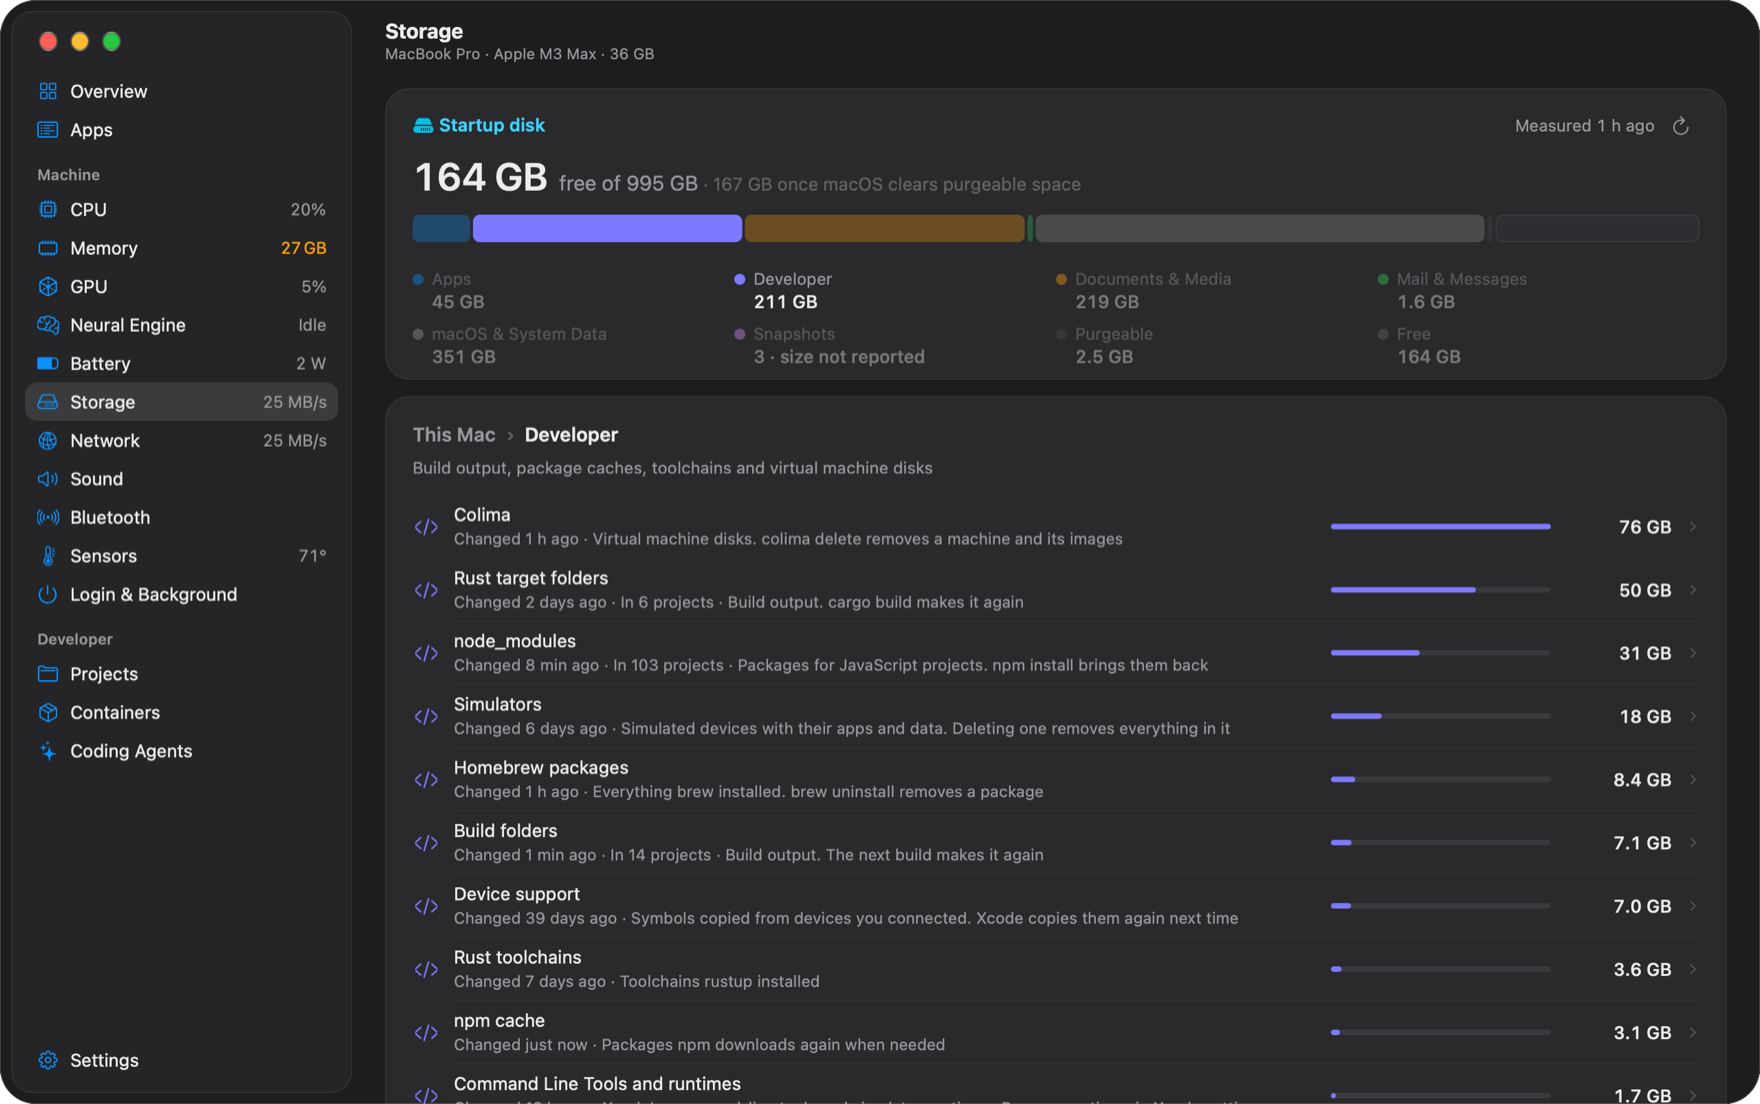
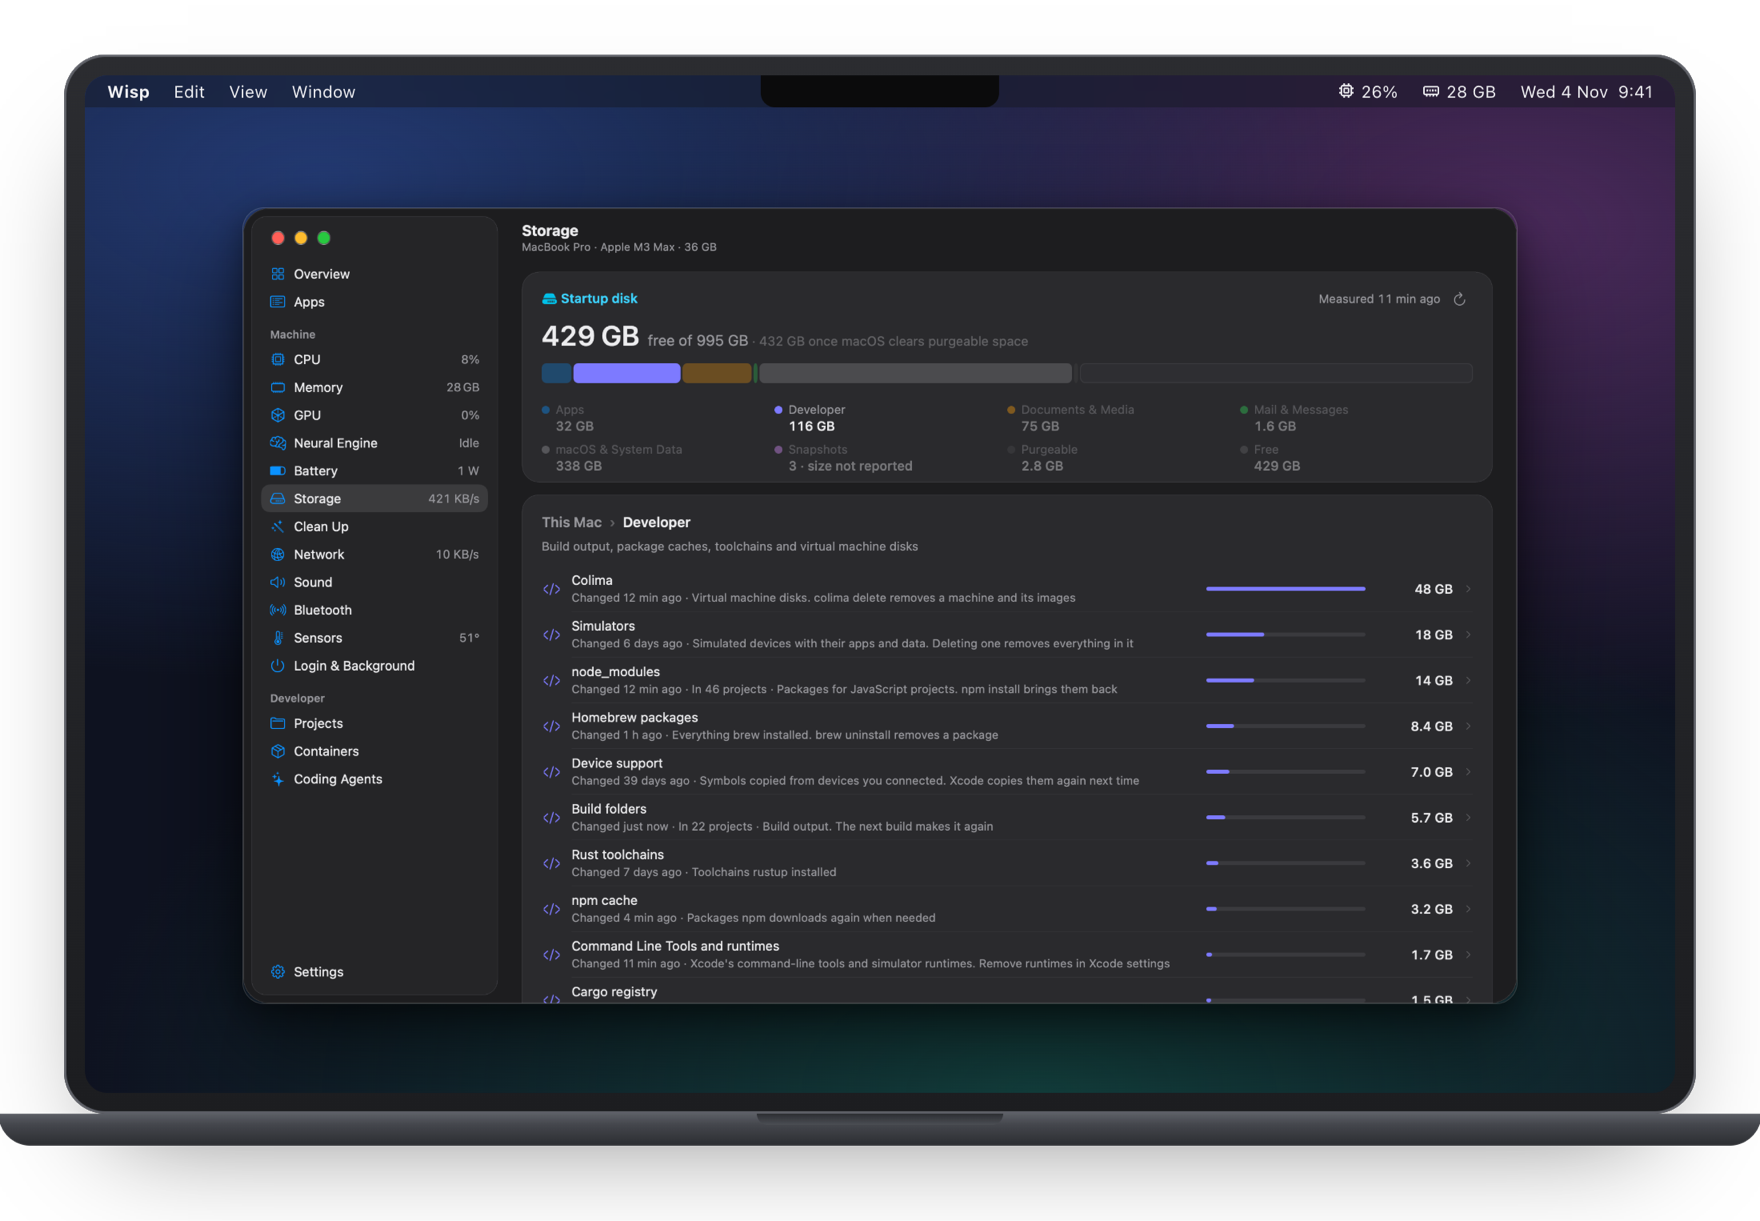
README: laptop mockups and a Clean Up screenshot

diff --git a/README.md b/README.md
@@ -15,15 +15,14 @@ brew install --cask current/tap/wisp
 
 <picture>
   <source media="(prefers-color-scheme: dark)" srcset="docs/images/overview-dark.png">
-  <img src="docs/images/overview-light.png" alt="The Overview page with Why Is It Slow? open. It says limactl is holding 20 GB and macOS has compressed 12 GB to make room, and that 15 dev servers are using 4.7 GB together. Below are the CPU, memory and GPU cards.">
+  <img src="docs/images/overview-light.png" alt="Wisp on a MacBook Pro: the Overview page with CPU, memory, GPU, storage, network, power and temperature cards, and the menu bar dashboard open beside it.">
 </picture>
 
 ## Why is my Mac slow?
 
 The Why Is It Slow? button on Overview checks memory pressure, swap, CPU use per
 app, Spotlight indexing and the dev servers you left running, then lists what it
-found with a button to the app. In the screenshot above, a Lima VM was using
-20 GB. `wisp why` runs the same check in a terminal.
+found with a button to the app. `wisp why` runs the same check in a terminal.
 
 The Hour and Day charts label each spike with the app that caused it.
 
@@ -36,7 +35,7 @@ containers, and its last hour.
 
 <picture>
   <source media="(prefers-color-scheme: dark)" srcset="docs/images/apps-dark.png">
-  <img src="docs/images/apps-light.png" alt="The Apps page with the drawer open for the Aside browser: 50 processes using 8.2 GB of memory and 4.8% CPU, split into windows, extensions, GPU and helpers.">
+  <img src="docs/images/apps-light.png" alt="The Apps page with the drawer open for the Aside browser: 58 processes using 9.2 GB of memory, split into windows, extensions, the main process and the GPU.">
 </picture>
 
 ## Storage
@@ -48,7 +47,7 @@ button opens the page below.
 
 <picture>
   <source media="(prefers-color-scheme: dark)" srcset="docs/images/storage-dark.png">
-  <img src="docs/images/storage-light.png" alt="The Storage page: 164 GB free of 995 GB, and the Developer list with Colima at 76 GB and Rust target folders in 6 projects at 50 GB.">
+  <img src="docs/images/storage-light.png" alt="The Storage page: 429 GB free of 995 GB, and the Developer list with Colima at 48 GB, simulators at 18 GB and node_modules in 46 projects at 14 GB.">
 </picture>
 
 ## Clean Up
@@ -77,6 +76,11 @@ never uses sudo or empties the Trash.
 Scans run only while the page is open. A scheduled clean and a watcher for
 deleted apps are in Settings, both off by default.
 
+<picture>
+  <source media="(prefers-color-scheme: dark)" srcset="docs/images/cleanup-dark.png">
+  <img src="docs/images/cleanup-light.png" alt="The Clean Up page on its Developer tab: 33 GB in 27 items, with Xcode device support at 7.0 GB and npm, Cargo, pnpm, uv, Homebrew and Go caches below, each marked Safe to clean or Check first.">
+</picture>
+
 ## Other pages
 
 - Battery: health, charge history and the apps that used the most energy.
@@ -98,7 +102,7 @@ The menu bar item opens a dashboard you can rearrange in Settings.
 
 <picture>
   <source media="(prefers-color-scheme: dark)" srcset="docs/images/dashboard-dark.png">
-  <img src="docs/images/dashboard-light.png" width="320" alt="The menu bar dashboard: CPU at 15%, meters for memory, GPU, power, network, disk and battery, and the five busiest apps.">
+  <img src="docs/images/dashboard-light.png" width="380" alt="The menu bar dashboard under its menu bar item: CPU at 21%, meters for memory, GPU, power, network, disk and battery, and the five busiest apps.">
 </picture>
 
 ## Performance
